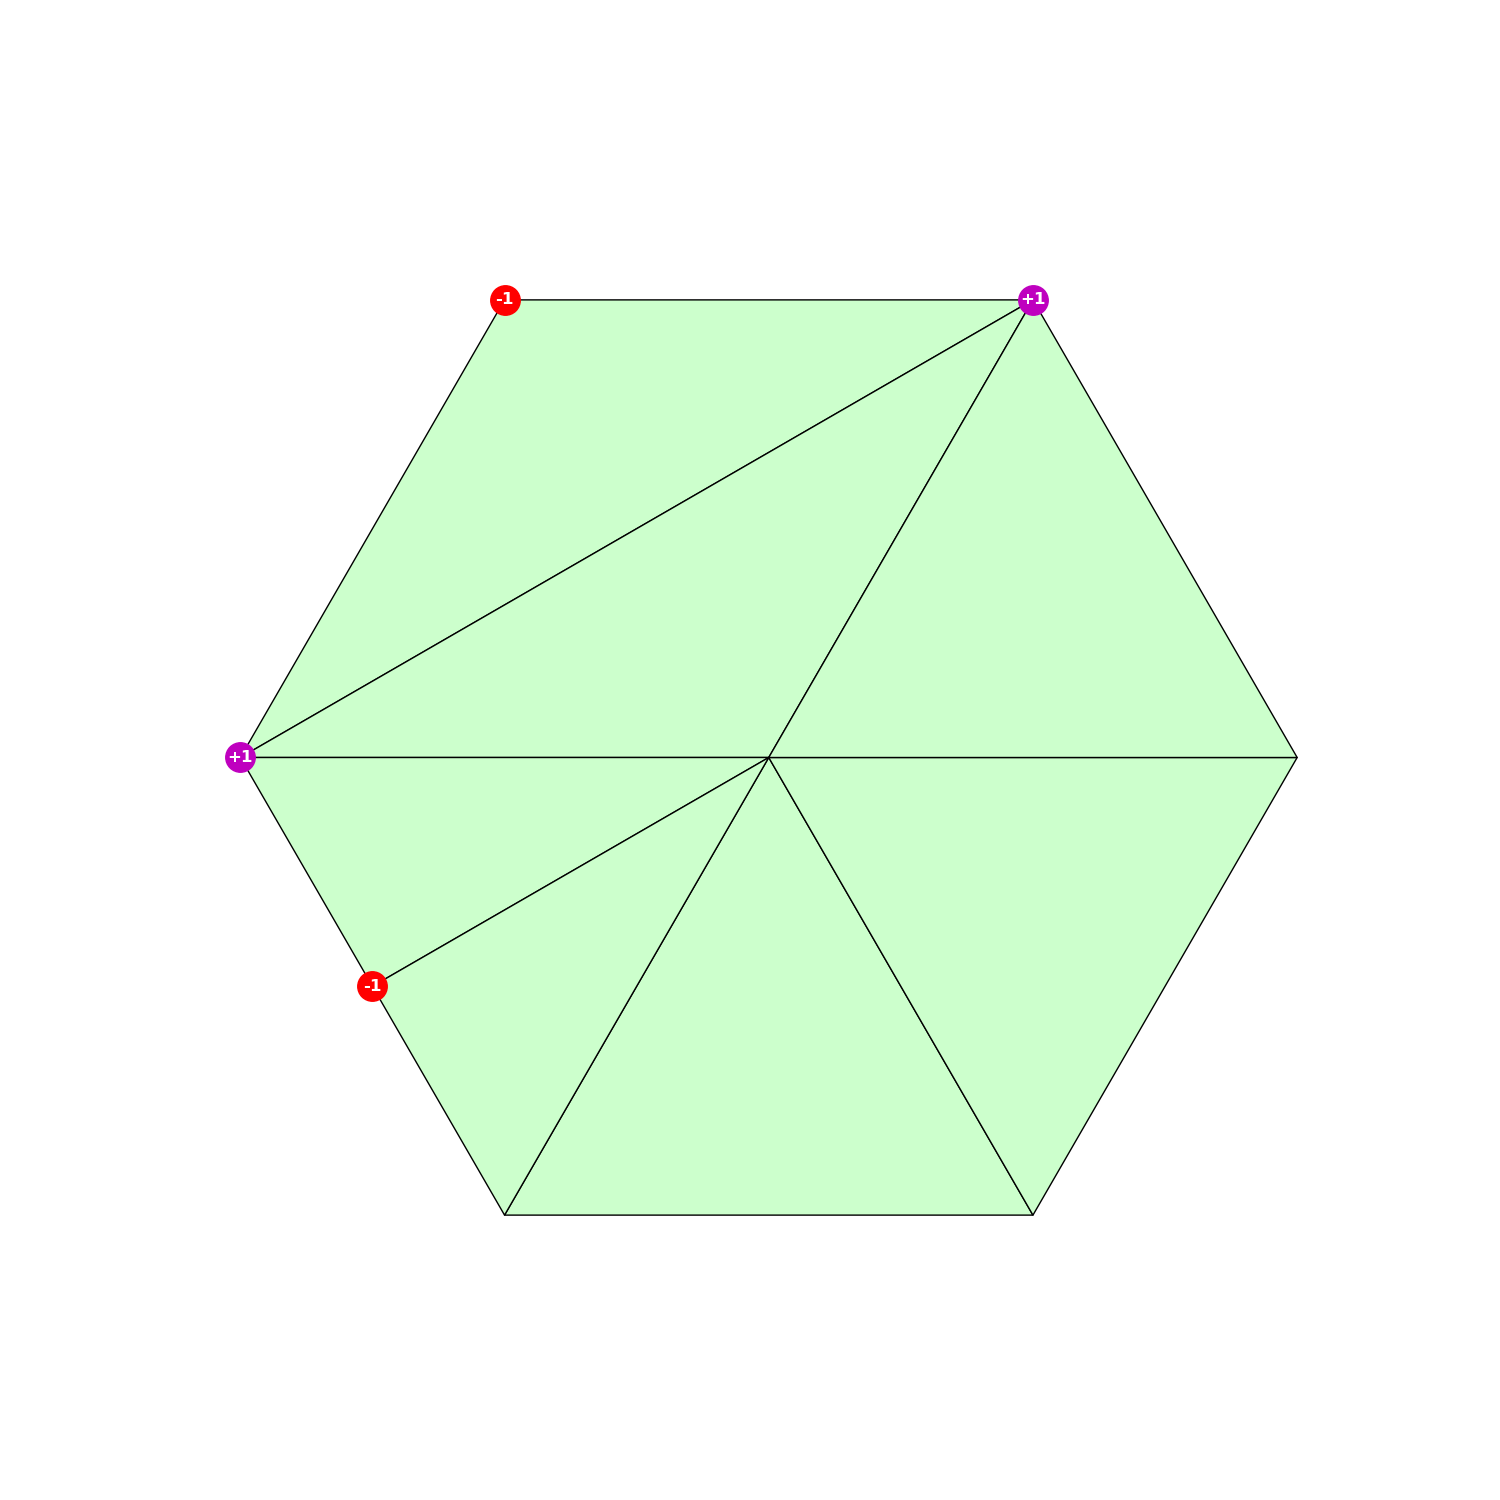
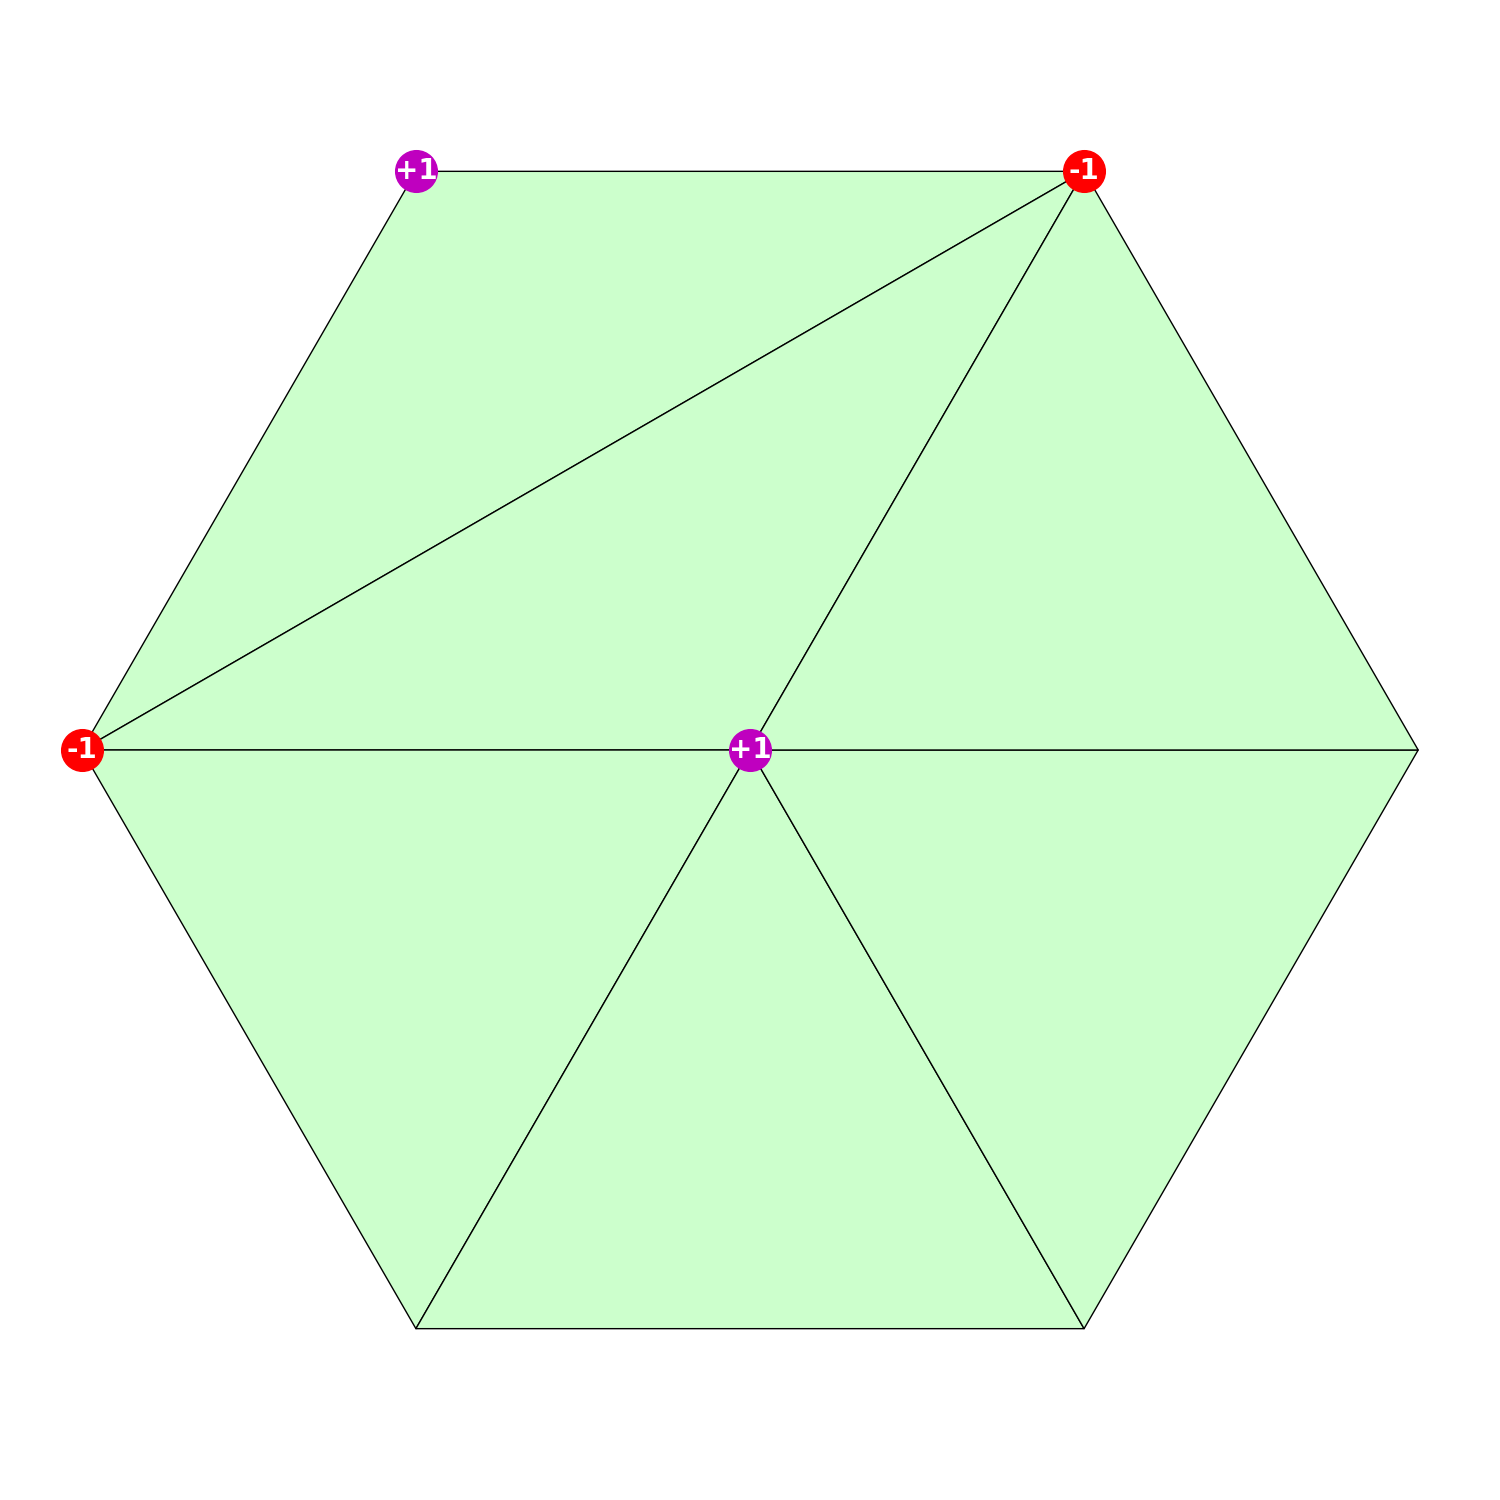
finished basic docs

diff --git a/README.md b/README.md
@@ -11,6 +11,11 @@ This package implements connectivity editing operations on Triangular Meshes. A 
 A triangular mesh can be defined by providing the coordinates of vertices and the connectivity of each triangle. As an example, let's create a simple hexagonal mesh,
 
 ```julia
+using TriMeshGame
+using MeshPlotter
+TM = TriMeshGame
+MP = MeshPlotter
+
 s = sqrt(3)/2
 vertices = [0.0  1.0  0.5   -0.5  -1.0  -0.5  0.5
             0.0  0.0  s      s     0.0  -s    -s]
@@ -194,19 +199,47 @@ Most people would prefer the mesh on the left to the mesh on the right.
 
 <img src="examples/figures/ideal-mesh.png" alt="drawing" width="400"/> <img src="examples/figures/bad-connectivity-mesh.png" alt="drawing" width="400"/>
 
-The connectivity of a mesh has an effect on __mesh quality__. For triangular meshes with uniformly sized elements, it is desirable to have a degree (or valence) of 6 for vertices in the interior of the mesh. The degree of vertices on the boundary depends on the angle enclosed by the two incident edges. (Typically, you would like to divide the enclosed angle sufficient times to bring the angle close to 60 degrees.)
+The connectivity of a mesh has an effect on __mesh quality__. For triangular meshes with uniformly sized elements, it is desirable to have a degree (or valence) of 6 for vertices in the interior of the mesh. The degree of vertices on the boundary depends on the angle enclosed by the two incident edges. Typically, you would like to divide the enclosed angle sufficient times to bring the angle close to 60 degrees. For example, if the enclosed angle is 180 degrees, you would like the valence to be 4.
 
 The objective function of our game is to minimize the number of vertices with irregular valence. `MeshPlotter` helps with visualizing irregular vertices. Here's an example,
 
 ```julia
 mesh = TM.circlemesh(0)
-d0 = TM.active_degrees(mesh)
-env = TM.GameEnv(mesh, d0, 10)
-TM.step_flip!(env, 1, 2, -4)
-TM.step_split!(env, 3, 1, -4)
-TM.reindex!(env)
-MP.plot_mesh(TM.active_vertex_coordinates(env.mesh), TM.active_triangle_connectivity(env.mesh),
-vertex_score = TM.active_vertex_score(env))
+desired_degree = TM.active_degrees(mesh)
+TM.edgeflip!(mesh, 1, 2)
+vertex_score = desired_degree - TM.active_degrees(mesh)
+MP.plot_mesh(TM.active_vertex_coordinates(mesh), TM.active_triangle_connectivity(mesh), vertex_score = vertex_score)
 ```
 
 <img src="examples/figures/vertex-score-example.png" alt="drawing" width="600"/>
+
+
+The quality of a mesh, in terms of its connectivity, can be boiled down to a single number as the sum of the absolute vertex scores `score = sum(abs.(vertex_score))`. We can try to optimize the connectivity of the mesh by driving down this score to zero. Note that all our actions are _zero sum_ i.e. `sum(vertex_score)` is the same before and after any action. Thus, we have a lower bound on our score metric since `abs(sum(vertex_score)) <= sum(abs.(vertex_score))`. I don't know if you can always achieve this optimum, but it is helpful to measure how well we are doing.
+
+To deal with this setup, we provide a `GameEnv` with constructor `GameEnv(mesh, desired_degree, max_actions)`.
+
+```julia
+julia> mesh = TM.circlemesh(0);
+
+julia> desired_degree = [5,3,3,2,3,4,2];
+
+julia> env = TM.GameEnv(mesh, desired_degree, 10)
+GameEnv
+   num actions : 0
+   max actions : 10
+   score       : 4
+   opt score   : 2
+   terminated  : false
+```
+
+The `GameEnv` keeps track of a few things for you. 
+
+- `env.num_action` : the number of actions taken so far
+- `env.current_score` : equal to `sum(abs.(env.vertex_score))`
+- `env.opt_score` : the optimum score equal to `abs(sum(env.vertex_score))`
+- `env.reward` : the reward for the previous action equal to the difference between `env.current_score` before and after the action.
+- `env.is_terminated` : whether or not the environment is terminated. The `GameEnv` is said to be terminal if the number of actions exceeds `env.max_actions` or `env.current_score == env.opt_score`.
+
+You can perform all the actions discussed above on the `GameEnv`, using the syntax `step_flip!(env, triangle_index, half_edge_index)`, `step_interior_split!(env, triangle_index, half_edge_index)`, `step_boundary_split!(env, triangle_index, half_edge_index)`, `ste_split!(env, triangle_index, half_edge_index)` (`TriMeshGame` will infer if the edge is interior or boundary), and `step_collapse!(env, triangle_index, half_edge_index)`. All of these functions accept a keyword argument `no_action_reward` -- if the requested action is not valid, the environment records this value as the reward. 
+
+You've probably guessed that the language here is reminiscent of Reinforcement Learning. That is indeed the idea! The half-edge datastructure stores topological information. An agent can be trained to determine the appropriate action to be taken in order to improve the connectivity of the mesh. This is precisely what I implement in my other package [ProximalPolicyOptimization.jl](https://github.com/ArjunNarayanan/ProximalPolicyOptimization.jl) which uses the [proximal policy optimization](https://openai.com/blog/openai-baselines-ppo/) algorithm to learn to play `TriMeshGame`!
